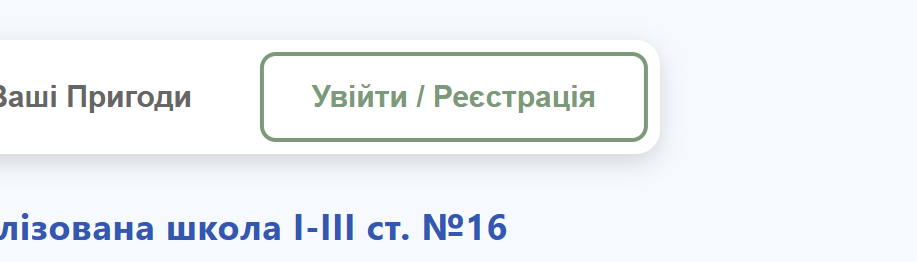
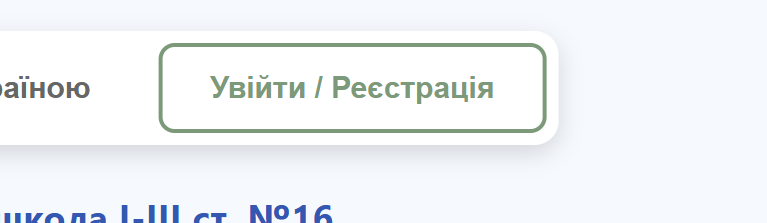
fixed mobile view

Changed region(s): [[0.0, 0.1883, 0.7197, 0.6457], [0.0, 0.8072, 0.5698, 1.0], [0.0, 0.2422, 0.2099, 0.5381]]

diff --git a/src/App.js b/src/App.js
@@ -308,30 +308,32 @@ function App() {
         )}
       </div>
 
-      <div className="tabs-container">
-        <button
-          className={`tab-button ${
-            activeTab === "discovering" ? "active" : ""
-          }`}
-          onClick={() => setActiveTab("discovering")}
-        >
-          Досліджуємо Україну
-        </button>
-        <button
-          className={`tab-button ${activeTab === "adventures" ? "active" : ""}`}
-          onClick={() => setActiveTab("adventures")}
-        >
-          Подорожуємо Україною
-        </button>
-        {!currentUser && (
+      {!showAuthModal && (
+        <div className="tabs-container">
           <button
-            className="tab-button auth-button"
-            onClick={() => setShowAuthModal(true)}
+            className={`tab-button ${
+              activeTab === "discovering" ? "active" : ""
+            }`}
+            onClick={() => setActiveTab("discovering")}
           >
-            Увійти / Реєстрація
+            Досліджуємо Україну
           </button>
-        )}
-      </div>
+          <button
+            className={`tab-button ${activeTab === "adventures" ? "active" : ""}`}
+            onClick={() => setActiveTab("adventures")}
+          >
+            Подорожуємо Україною
+          </button>
+          {!currentUser && (
+            <button
+              className="tab-button auth-button"
+              onClick={() => setShowAuthModal(true)}
+            >
+              Увійти / Реєстрація
+            </button>
+          )}
+        </div>
+      )}
 
       <div className="hero-title">
         <p className="school-name">
@@ -361,7 +363,36 @@ function App() {
 
       <AboutSection />
 
-      {showAuthModal && <AuthModal onClose={() => setShowAuthModal(false)} />}
+      {/* Floating registration button for mobile - only show when not logged in and auth modal is closed */}
+      {!currentUser && !showAuthModal && (
+        <button
+          className="mobile-auth-floating-btn"
+          onClick={() => setShowAuthModal(true)}
+        >
+          <svg
+            width="20"
+            height="20"
+            viewBox="0 0 24 24"
+            fill="none"
+            stroke="currentColor"
+            strokeWidth="2"
+          >
+            <path d="M20 21v-2a4 4 0 0 0-4-4H8a4 4 0 0 0-4 4v2" />
+            <circle cx="12" cy="7" r="4" />
+          </svg>
+          Увійти / Реєстрація
+        </button>
+      )}
+
+      {showAuthModal && (
+        <AuthModal
+          onClose={() => setShowAuthModal(false)}
+          onAuthSuccess={() => {
+            // Immediately refresh user data when auth succeeds
+            loadUserFromStorage();
+          }}
+        />
+      )}
 
       <ConfirmModal
         isOpen={showLogoutConfirm}

diff --git a/src/App.css b/src/App.css
@@ -191,6 +191,7 @@
 @media (max-width: 768px) {
   .hero-title {
     padding: 16px 16px 12px;
+    padding-right: 80px; /* Space for user-section */
     margin-top: 70px;
   }
 
@@ -373,6 +374,10 @@
     padding: 6px 12px;
   }
 
+  .hero-title {
+    padding-right: 90px; /* Space for user-section on tablet/mobile */
+  }
+
   .user-avatar {
     width: 28px;
     height: 28px;
@@ -408,6 +413,10 @@
 
   .tab-button.active {
     transform: scale(1.02);
+  }
+
+  .tab-button.auth-button {
+    display: none; /* Hidden on mobile - using floating button instead */
   }
 
   .interactive-svg {
@@ -504,6 +513,54 @@
     font-size: 13px;
     padding: 10px 20px;
     bottom: 110px;
+  }
+}
+
+/* Mobile floating auth button - hidden on desktop */
+.mobile-auth-floating-btn {
+  display: none;
+}
+
+@media (max-width: 1024px) {
+  .mobile-auth-floating-btn {
+    display: flex;
+    align-items: center;
+    gap: 10px;
+    position: fixed;
+    bottom: 100px;
+    left: 50%;
+    transform: translateX(-50%);
+    background: linear-gradient(135deg, #6f9c76 0%, #5a8060 100%);
+    color: white;
+    padding: 14px 24px;
+    border-radius: 30px;
+    font-size: 15px;
+    font-weight: 600;
+    border: none;
+    cursor: pointer;
+    z-index: 2400;
+    box-shadow: 0 6px 20px rgba(111, 156, 118, 0.4);
+    transition: all 0.3s ease;
+    white-space: nowrap;
+  }
+
+  .mobile-auth-floating-btn:hover,
+  .mobile-auth-floating-btn:active {
+    background: linear-gradient(135deg, #5a8060 0%, #4a6b50 100%);
+    transform: translateX(-50%) scale(1.02);
+    box-shadow: 0 8px 24px rgba(111, 156, 118, 0.5);
+  }
+
+  .mobile-auth-floating-btn svg {
+    flex-shrink: 0;
+  }
+}
+
+@media (max-width: 768px) {
+  .mobile-auth-floating-btn {
+    bottom: 90px;
+    padding: 12px 20px;
+    font-size: 14px;
   }
 }
 

diff --git a/src/components/AuthModal.js b/src/components/AuthModal.js
@@ -3,7 +3,7 @@ import "./AuthModal.css";
 import classesData from "../data/classesData.json";
 import { api, saveAuthData } from "../services/api";
 
-function AuthModal({ onClose }) {
+function AuthModal({ onClose, onAuthSuccess }) {
   const [activeTab, setActiveTab] = useState("register"); // 'register' or 'login'
   const [registerForm, setRegisterForm] = useState({
     name: "",
@@ -84,6 +84,11 @@ function AuthModal({ onClose }) {
       // Save auth data to localStorage
       saveAuthData(result.data);
 
+      // Notify parent about successful auth immediately
+      if (onAuthSuccess) {
+        onAuthSuccess();
+      }
+
       setSuccess("Реєстрація успішна! Ласкаво просимо.");
       setRegisterForm({
         name: "",
@@ -127,6 +132,11 @@ function AuthModal({ onClose }) {
 
       // Save auth data to localStorage
       saveAuthData(result.data);
+
+      // Notify parent about successful auth immediately
+      if (onAuthSuccess) {
+        onAuthSuccess();
+      }
 
       setSuccess("Вхід успішний! Ласкаво просимо.");
       setLoginForm({ name: "", password: "" });

diff --git a/src/components/WelcomeGuide.js b/src/components/WelcomeGuide.js
@@ -105,9 +105,9 @@ const slides = [
           <strong>Натисніть на будь-яку область</strong>, щоб:
         </p>
         <ul>
-          <li>Додати пін «Був тут» або «Хочу відвідати»</li>
-          <li>Написати опис своєї подорожі чи мрії</li>
-          <li>Прикріпити фотографії з ваших пригод</li>
+          <li>додати пін «Був тут» або «Хочу відвідати»</li>
+          <li>написати опис своєї подорожі чи мрії</li>
+          <li>прикріпити фотографії з ваших пригод</li>
         </ul>
         <p>Діліться своїми враженнями та надихайте інших!</p>
       </>

diff --git a/src/components/DiscoveringUkraine.js b/src/components/DiscoveringUkraine.js
@@ -184,7 +184,7 @@ function DiscoveringUkraine() {
       />
 
       <div className="scroll-hint">
-        👆 Swipe to explore the map
+        👆 Проведіть пальцем для перегляду карти
       </div>
 
       {selectedRegion && (
